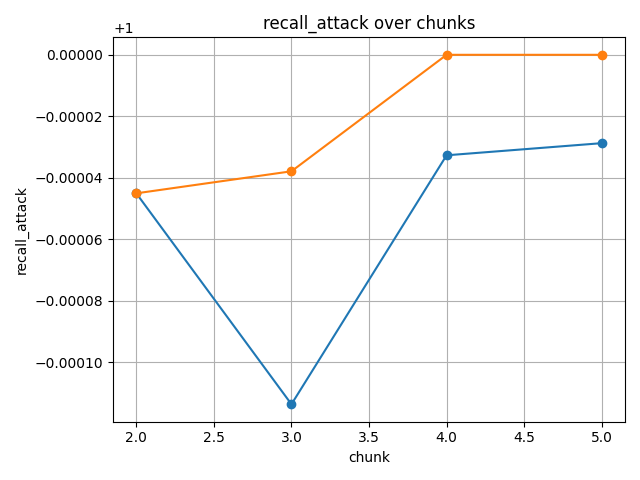
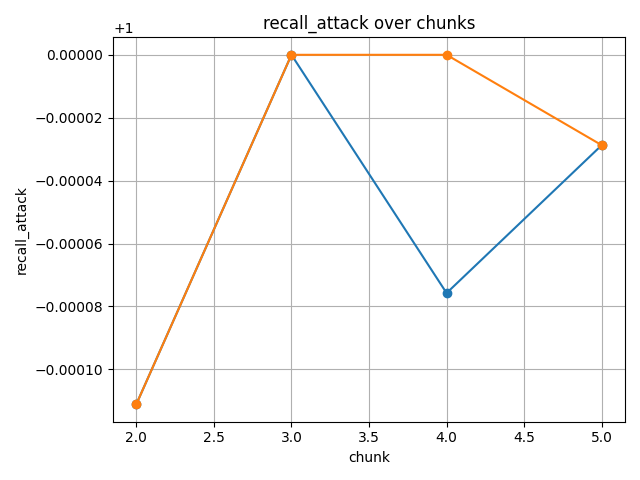
Add drift_start_chunk parameter to drift_meta.json and update metrics for multiple experiments
- Introduced `drift_start_chunk` in drift_meta.json files for cic_exp, nslkdd_exp, and unsw_exp to specify when drift starts.
- Updated metrics_by_chunk.csv files to reflect changes in drift detection results across different chunks.
- Modified drift simulation logic in drift_simulation.py to accommodate the new drift start parameter, enhancing control over drift behavior.

diff --git a/src/drift_simulation.py b/src/drift_simulation.py
@@ -27,6 +27,8 @@ def make_drift_chunks(
 
     - Each chunk has approximately the same size.
     - `benign_frac` controls the benign share in early chunks.
+    - `new_start` controls **when** drift starts (1-based chunk index).
+      If 0, drift starts around the middle chunk.
     - `new_frac` is reinterpreted as a **drift strength** in [0, 1]:
       larger values make later chunks more attack-heavy (lower benign ratio).
 
@@ -45,6 +47,14 @@ def make_drift_chunks(
     total = len(df)
     chunk_size = max(1, total // n_chunks)
 
+    # Decide drift start chunk (1-based)
+    if new_start is None or new_start <= 0:
+        # "auto mid": start after the first half
+        start_chunk = max(1, (n_chunks // 2) + 1)
+    else:
+        start_chunk = new_start
+    start_chunk = max(1, min(n_chunks, start_chunk))
+
     def sample_df(d: pd.DataFrame, n: int) -> pd.DataFrame:
         if n <= 0:
             return d.iloc[:0]
@@ -54,11 +64,13 @@ def make_drift_chunks(
 
     chunks: list[Chunk] = []
     for i in range(1, n_chunks + 1):
-        # Normalised position in stream [0, 1]; 0 = first chunk, 1 = last.
-        if n_chunks > 1:
-            t = (i - 1) / (n_chunks - 1)
-        else:
+        # Normalised position in drift window [0, 1].
+        # Before start_chunk => no drift (t = 0).
+        if i < start_chunk:
             t = 0.0
+        else:
+            denom = max(1, n_chunks - start_chunk)
+            t = (i - start_chunk) / denom
 
         # Benign fraction decreases over time depending on drift strength.
         drift_strength = max(0.0, min(1.0, new_frac))
@@ -87,10 +99,12 @@ def make_drift_chunks(
     meta = {
         "n_chunks": n_chunks,
         "chunk_size_approx": chunk_size,
+        "drift_start_chunk": start_chunk,
         "benign_frac_start": benign_frac,
         "benign_frac_end": max(
             0.0,
-            benign_frac * (1.0 - max(0.0, min(1.0, new_frac))),
+            benign_frac
+            * (1.0 - (max(0.0, min(1.0, new_frac)) if start_chunk < n_chunks else 0.0)),
         ),
         "drift_strength": max(0.0, min(1.0, new_frac)),
     }
